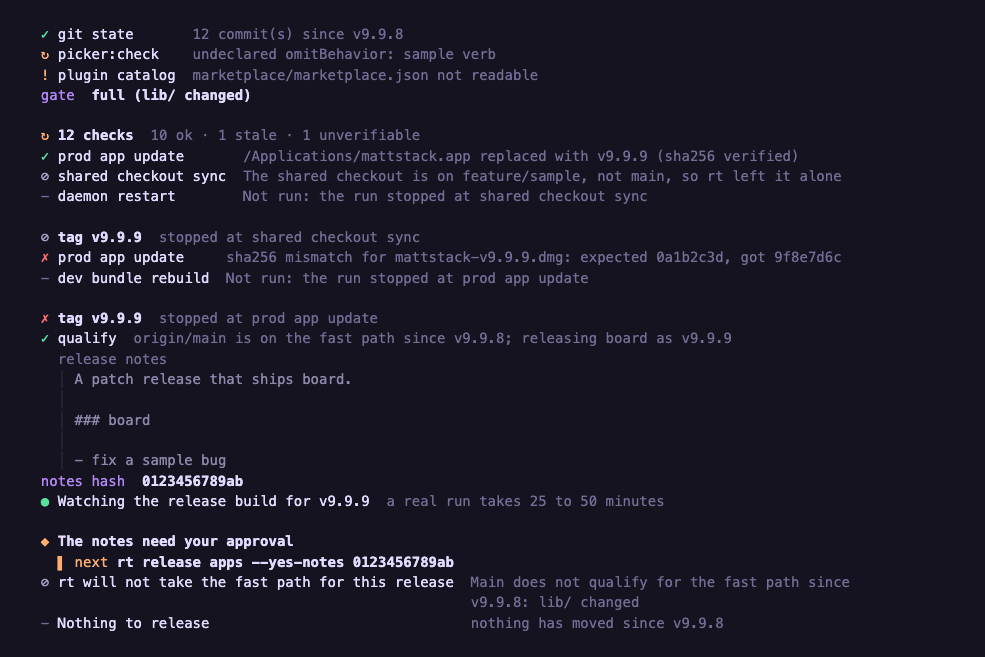
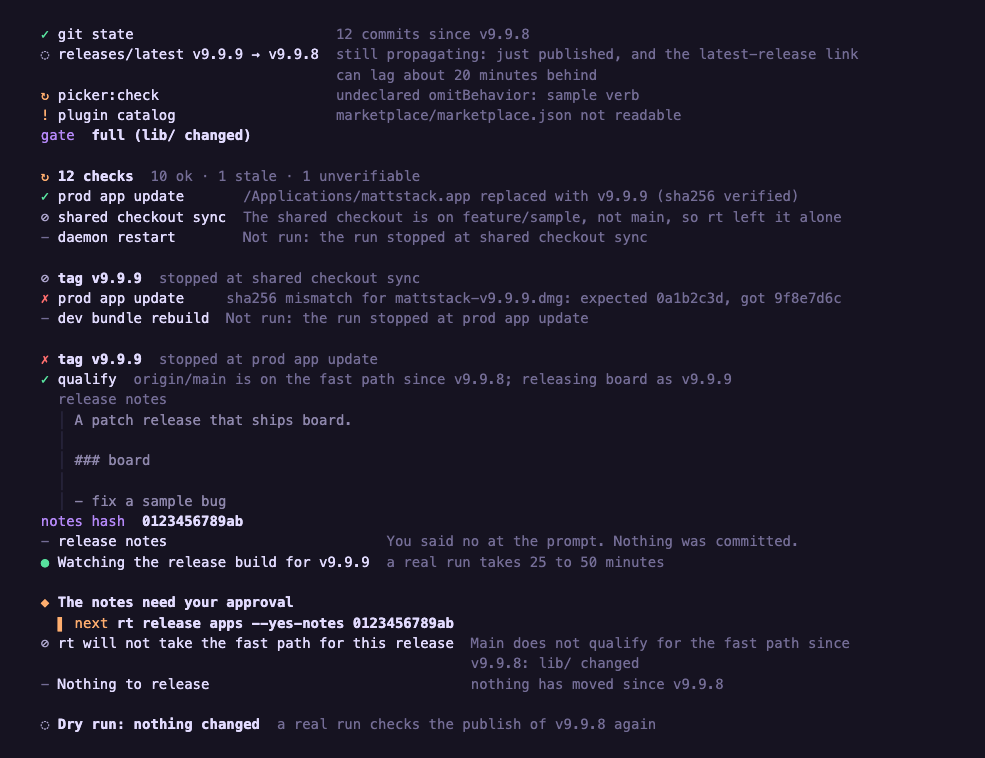
docs: re-shoot the home and release renders, the mr-board command on its own row
The steps captures erase their harness marker before the shot, so only the
four stages show. The home and release pages show the next callout, the
key mismatch note, the plural commit count and the reworded verify, notes
and dry run lines. The mr-board callout puts its command on a row of its
own so a long repo path does not run past the width.

Changed region(s): [[0.0305, 0.0304, 0.8832, 0.9741], [0.6701, 0.8219, 0.8528, 0.8524], [0.7614, 0.3653, 0.8528, 0.3957]]

diff --git a/commands/__tests__/home.test.ts b/commands/__tests__/home.test.ts
@@ -1148,8 +1148,9 @@ describe("homeInit", () => {
       // boardSetup never spawns — mr-board's setup prompts interactively — it only prints the manual command, once.
       expect(logs.some((l) => l.includes("Set up mr-board"))).toBe(true);
       const manualCommandLines = logs.filter((l) => l.includes("/repos/mr-board") && l.includes("scripts/setup.ts"));
-      expect(manualCommandLines).toEqual(['  next: Run this yourself, it asks questions: cd "/repos/mr-board" && bun run scripts/setup.ts']);
-      expect(logs[logs.indexOf(manualCommandLines[0]!) - 1]).toBe("[needs you] Set up mr-board  you run this one yourself");
+      expect(manualCommandLines).toEqual(['        cd "/repos/mr-board" && bun run scripts/setup.ts']);
+      const at = logs.indexOf(manualCommandLines[0]!);
+      expect(logs.slice(at - 2, at)).toEqual(["[needs you] Set up mr-board  you run this one yourself", "  next: Run this yourself, it asks questions:"]);
     });
 
     test("deck on PATH but already healthy: deck setup never spawns (it restarts the live proxy) — reported as skipped instead", async () => {

diff --git a/commands/home.ts b/commands/home.ts
@@ -587,7 +587,7 @@ async function runRefreshSteps(steps: MaterializeStep[], exec: MaterializeExecSe
     // A sub-line clears when its step ends done, and this guidance must outlive the step.
     const detail = [result.ok ? "" : result.stderr, result.stdout, result.note].filter((text) => text !== "").flatMap((text) => text.split("\n"));
     if (detail.length > 0) out.print(out.verbatim(detail));
-    if (result.runYourself) out.print(out.callout("next", ["Run this yourself, it asks questions: ", out.cmd(result.runYourself)]));
+    if (result.runYourself) out.print(out.callout("next", "Run this yourself, it asks questions:", out.cmd(result.runYourself)));
     if (!result.ok && RT_OWN_STEP_KINDS.has(step.kind)) rtOwnFailed = true;
   }
   return rtOwnFailed;

diff --git a/docs/design/output-layer/README.md b/docs/design/output-layer/README.md
@@ -25,9 +25,9 @@ on a dark and a light terminal background.
 | `sync-dark.png`, `sync-light.png` | `rt sync` at 100 columns: the stack warning, a reset and a rebase with a resolved conflict, a paused conflict with its files listed once under a caption, then the manual report, the conflict failure, the stack refusal, an agent that timed out, and `sync all` with four branches (two refused and one failed push, which shows only its ending, each under its heading) and its summary |
 | `sdm-dark.png`, `sdm-light.png` | `rt sdm` at 100 columns: the production banner, a verified and an unconfirmed connect, a declined one, a failed connect with what StrongDM printed, a tunnel that did not come up, an access failure, the manual-login failure, the production refusal, status, the connections table, refresh and enrichment |
 | `port-runs-dark.png`, `port-runs-light.png` | `rt port` (the no-daemon note, repos, branches, ports, kill results) and `rt runs` (the list, one run's detail, two failures) |
-| `home-dark.png`, `home-light.png` | `rt home` at 100 columns: the init plan, each stage's ending line with the refresh guidance under it, the key lines, snapshot status, a claim and a refused claim, and two failures (a key mismatch, a failed clone with what git said) |
+| `home-dark.png`, `home-light.png` | `rt home` at 100 columns: the init plan, each stage's ending line with the refresh guidance under it and the mr-board command as a `next` callout, the key lines, snapshot status, a claim and a refused claim, and two failures (a key mismatch with its rotation note, a failed clone with what git said) |
 | `home-steps-dark.png`, `home-steps-light.png` | `rt home init`'s live stages as `rt-ui steps` paints them through a pty: skipped, needs-you, warn, and a failed stage that keeps its sub-line (termwright's own dark ground in both; the two are identical, because the steps verb picks the same colors whatever `COLORFGBG` says) |
-| `release-dark.png`, `release-light.png` | `rt release` at 100 columns: preflight rows and summary, update-machine legs stopped by a refused leg and by a failed checksum, and `apps` progress (a step, the notes, the watch, the approval stop, a fast path refusal, nothing to release) |
+| `release-dark.png`, `release-light.png` | `rt release` at 100 columns: preflight rows (with a verify row still propagating) and summary, update-machine legs stopped by a refused leg and by a failed checksum, and `apps` progress (a step, the notes, a no at the notes prompt, the watch, the approval stop, a fast path refusal, nothing to release, a dry run that only checks a publish again) |
 
 The light pages are rendered with `COLORFGBG=0;15`, which is how a light
 terminal that reports its background gets the pale diff tints. A light
